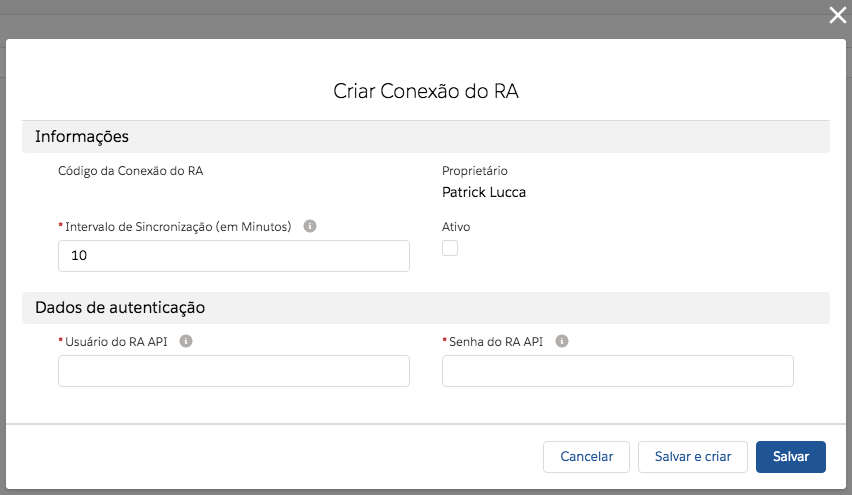
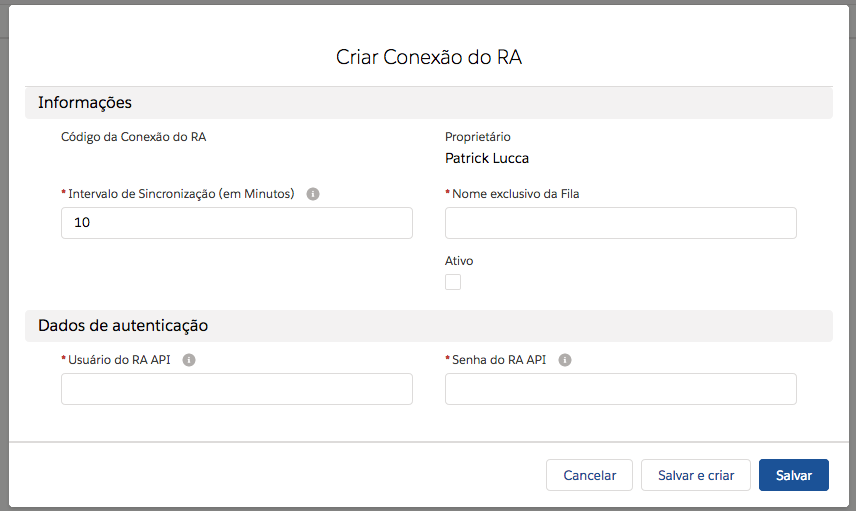
Conexao Atualizado.

diff --git a/docs/Funcional/cadastro_conexao.rst b/docs/Funcional/cadastro_conexao.rst
@@ -6,7 +6,7 @@ Cadastro de Nova Conexão
 Para registrar uma nova conexão, vá na aba do **Conexões do RA** e clique em novo.
 
 .. figure:: img/cadastroConexao.png
-    :width: 500px
+    :width: 600px
     :alt: Solidity logo
     :align: center
     
@@ -18,8 +18,12 @@ Intervalo de Sincronização (em Minutos): marca a periodicidade de atualizaçã
 
 Ativo: apenas conexões ativas serão atualizadas de acordo do intervalo de sincronização. 
 
+Nome exclusivo da Fila: é a fila pardrão que será proprietário dos casos criados por essa conexão.
+
+.. Hint:: Filas são um conjunto de grupo que será responsável por um determinado conjunto de objetos ou apenas de um objeto.
+
 Usuário do RA API: usuário da **API da Reclame Aqui**, "RA API". 
 
 Senha do RA API: senha da **API da Reclame Aqui**, "RA API". 
 
-.. Hint:: Caso não tenha será necessário a aquisição do mesmo através do site: https://parasuaempresa.reclameaqui.com.br/ra-api. 
+.. Hint:: Caso não tenha será necessário a aquisição do mesmo através do site: https://parasuaempresa.reclameaqui.com.br/ra-api.
